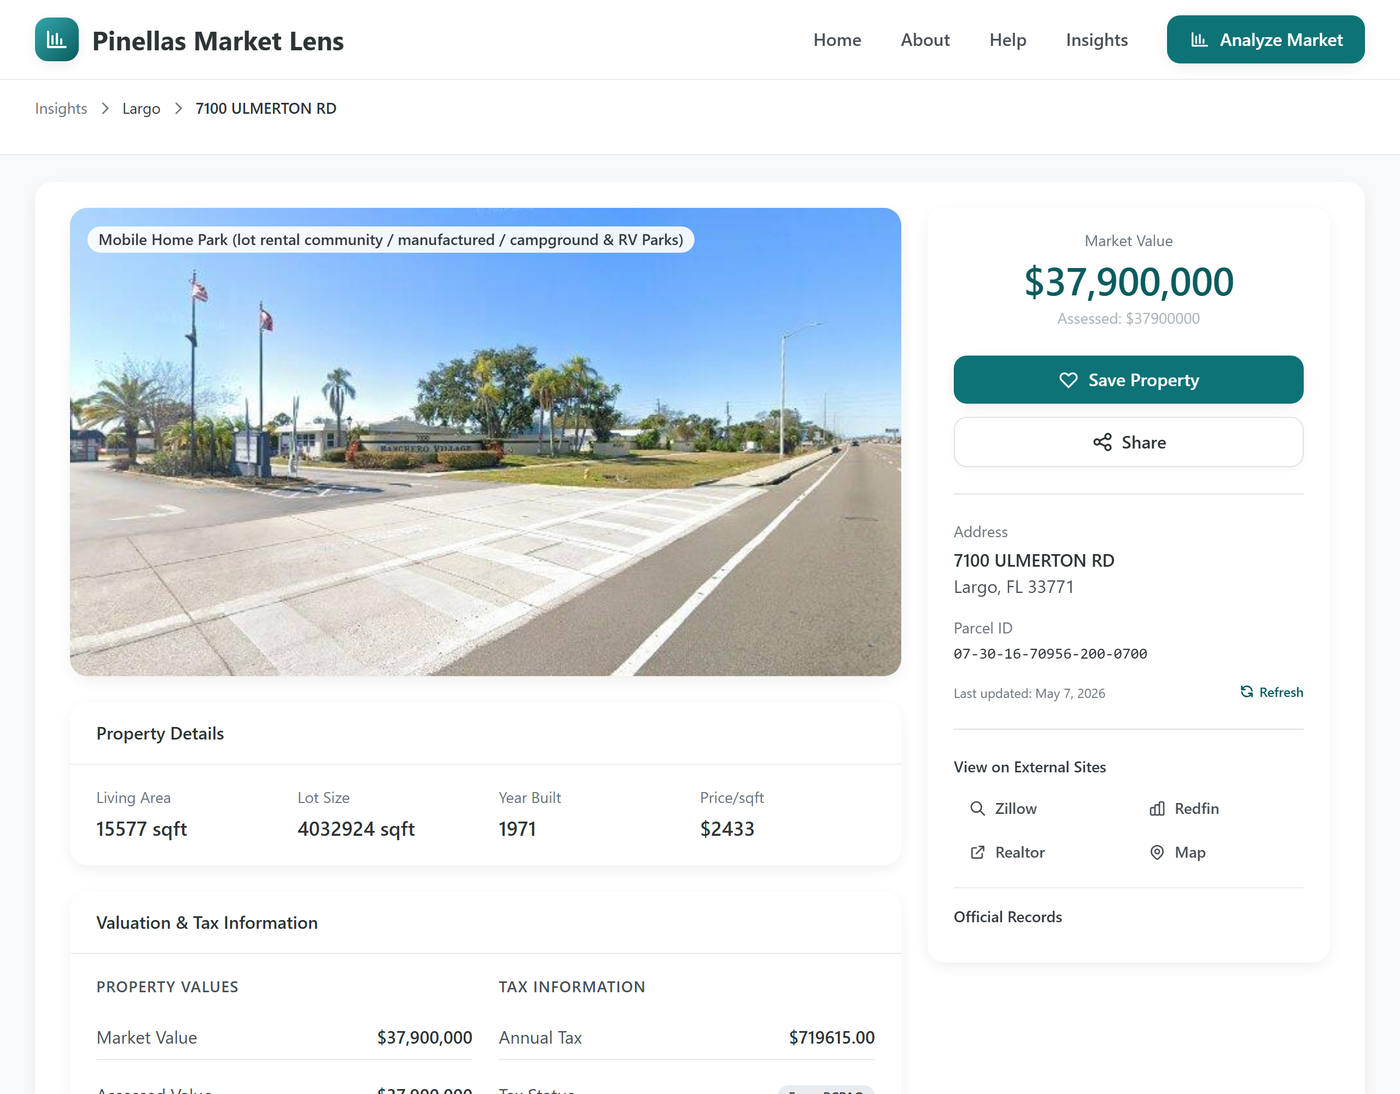
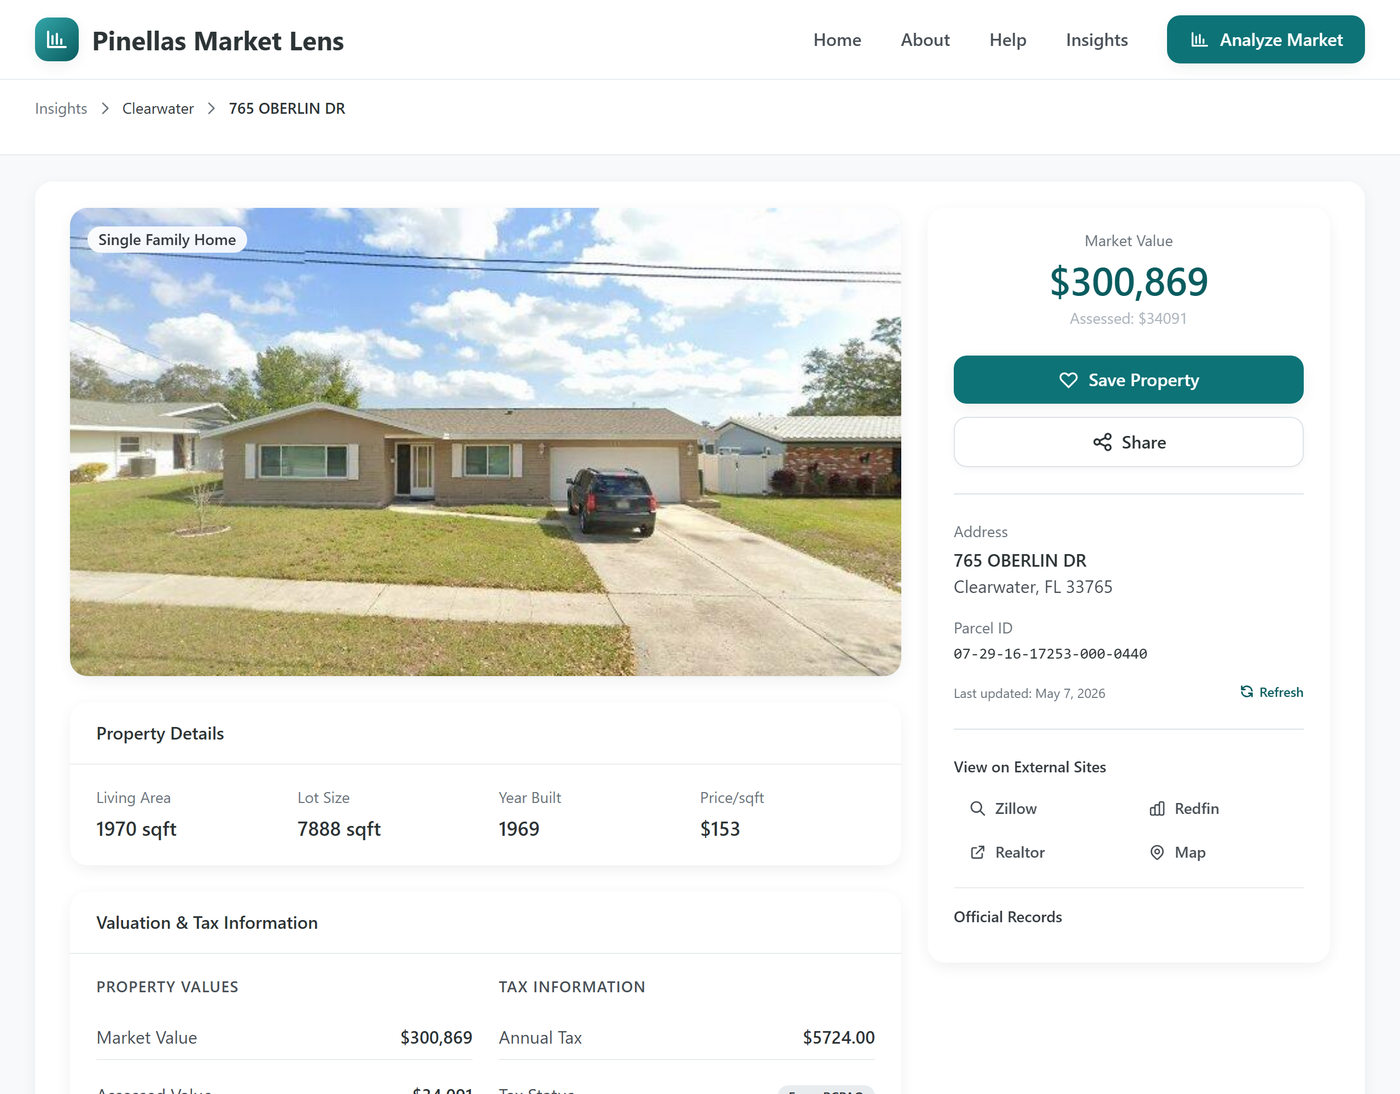
Unify the parcel-count claims and reshoot the featured screenshot
The dataset has one true size (437,434 parcels), but the copy quoted
two different numbers as if they were the same stat: base.html's meta
description already said "437,000+", while the search page hero and
the README said "400,000+"/"400k+" — actually the residential-default
*filtered* count (409,396) shown on first load of the dashboard, not
the dataset size. Use the true, filter-independent total everywhere.

Also swap the featured parcel-drilldown screenshot: it was a $37.9M
mobile-home-park IQR outlier (an odd choice to represent a "typical"
result), replaced with an ordinary $300k Clearwater single-family home
pulled from a normal, price-banded dashboard view. Caption/alt text
updated to match.

diff --git a/templates/analytics/search.html b/templates/analytics/search.html
@@ -334,7 +334,7 @@
                 <svg class="w-5 h-5 text-success-500" fill="currentColor" viewBox="0 0 20 20">
                     <path fill-rule="evenodd" d="M10 18a8 8 0 100-16 8 8 0 000 16zm3.707-9.293a1 1 0 00-1.414-1.414L9 10.586 7.707 9.293a1 1 0 00-1.414 1.414l2 2a1 1 0 001.414 0l4-4z" clip-rule="evenodd" />
                 </svg>
-                <span>400,000+ Parcels</span>
+                <span>437,000+ Parcels</span>
             </div>
             <div class="flex items-center gap-2">
                 <svg class="w-5 h-5 text-success-500" fill="currentColor" viewBox="0 0 20 20">

diff --git a/README.md b/README.md
@@ -14,14 +14,14 @@ Pinellas Market Lens is a data-science dashboard for exploring Pinellas County, 
 
 ## Screenshots
 
-The market-insights dashboard — exact KPIs over 400k+ parcels, with pandas/numpy distributions, city/type segments, and auditable outliers:
+The market-insights dashboard — exact KPIs over 437,000+ parcels, with pandas/numpy distributions, city/type segments, and auditable outliers:
 
 ![Pinellas Market Lens market-insights dashboard](docs/img/dashboard.png)
 
-A parcel drilldown (here a high-value outlier surfaced by the dashboard) and the responsive mobile layout:
+A parcel drilldown and the responsive mobile layout:
 
 <p align="center">
-  <img src="docs/img/property-detail.png" alt="Parcel drilldown with valuation, tax, and outlier context" width="62%">
+  <img src="docs/img/property-detail.png" alt="Parcel drilldown with valuation, tax, and similar-property context" width="62%">
   &nbsp;
   <img src="docs/img/mobile.png" alt="Responsive mobile dashboard" width="30%">
 </p>
@@ -56,10 +56,10 @@ The production architecture keeps the app cheap and understandable: Vercel serve
 
 ### Design decisions
 
-- **Exact DB aggregates + capped pandas frames.** Headline KPIs (counts, medians, sums, tax rates) are exact database aggregates over the full filtered queryset, so the numbers are always right. The pandas/numpy layer that powers distributions, segments, and scatter plots reads a capped analysis frame (≤50k rows) — enough for representative EDA without pulling ~400k rows into a serverless function on every request.
+- **Exact DB aggregates + capped pandas frames.** Headline KPIs (counts, medians, sums, tax rates) are exact database aggregates over the full filtered queryset, so the numbers are always right. The pandas/numpy layer that powers distributions, segments, and scatter plots reads a capped analysis frame (≤50k rows) — enough for representative EDA without pulling ~437k rows into a serverless function on every request.
 - **Monthly bulk CSV import over live scraping.** The original app scraped PCPAO per search (Selenium, ~15 rows, 15–30s, often zero results). Importing the county's public bulk CSV once a month turns every search into a sub-second indexed query over complete data and removes Chrome/Selenium from the request path. The old per-parcel scrape survives only as an on-demand refresh.
-- **Vercel serverless + Neon Postgres.** Vercel runs Django with no servers to manage; Neon is a serverless Postgres that idles to zero between requests. The full dataset (~150 MB / ~400k parcels) fits under Neon's free storage, so the project is effectively free to run.
-- **DatabaseCache over Redis.** The only thing needing a cache is the per-parcel refresh rate limit. A database-backed cache table needs no extra service, survives serverless cold starts, and fails open — not worth standing up Redis for one rate-limit key.
+- **Vercel serverless + Neon Postgres.** Vercel runs Django with no servers to manage; Neon is a serverless Postgres that idles to zero between requests. The full dataset (~150 MB / ~437k parcels) fits under Neon's free storage, so the project is effectively free to run.
+- **DatabaseCache over Redis.** The only things needing a cache are the per-parcel refresh and per-IP export rate limits. A database-backed cache table needs no extra service, survives serverless cold starts, and fails open — not worth standing up Redis for a couple of rate-limit keys.
 - **GitHub Actions for the data refresh.** The import runs 10–20 minutes, well past Vercel's function timeout, so a monthly GitHub Actions cron runs it against Neon instead — free, no extra infrastructure, and duration doesn't matter for a one-shot batch.
 
 ## Interesting Bits